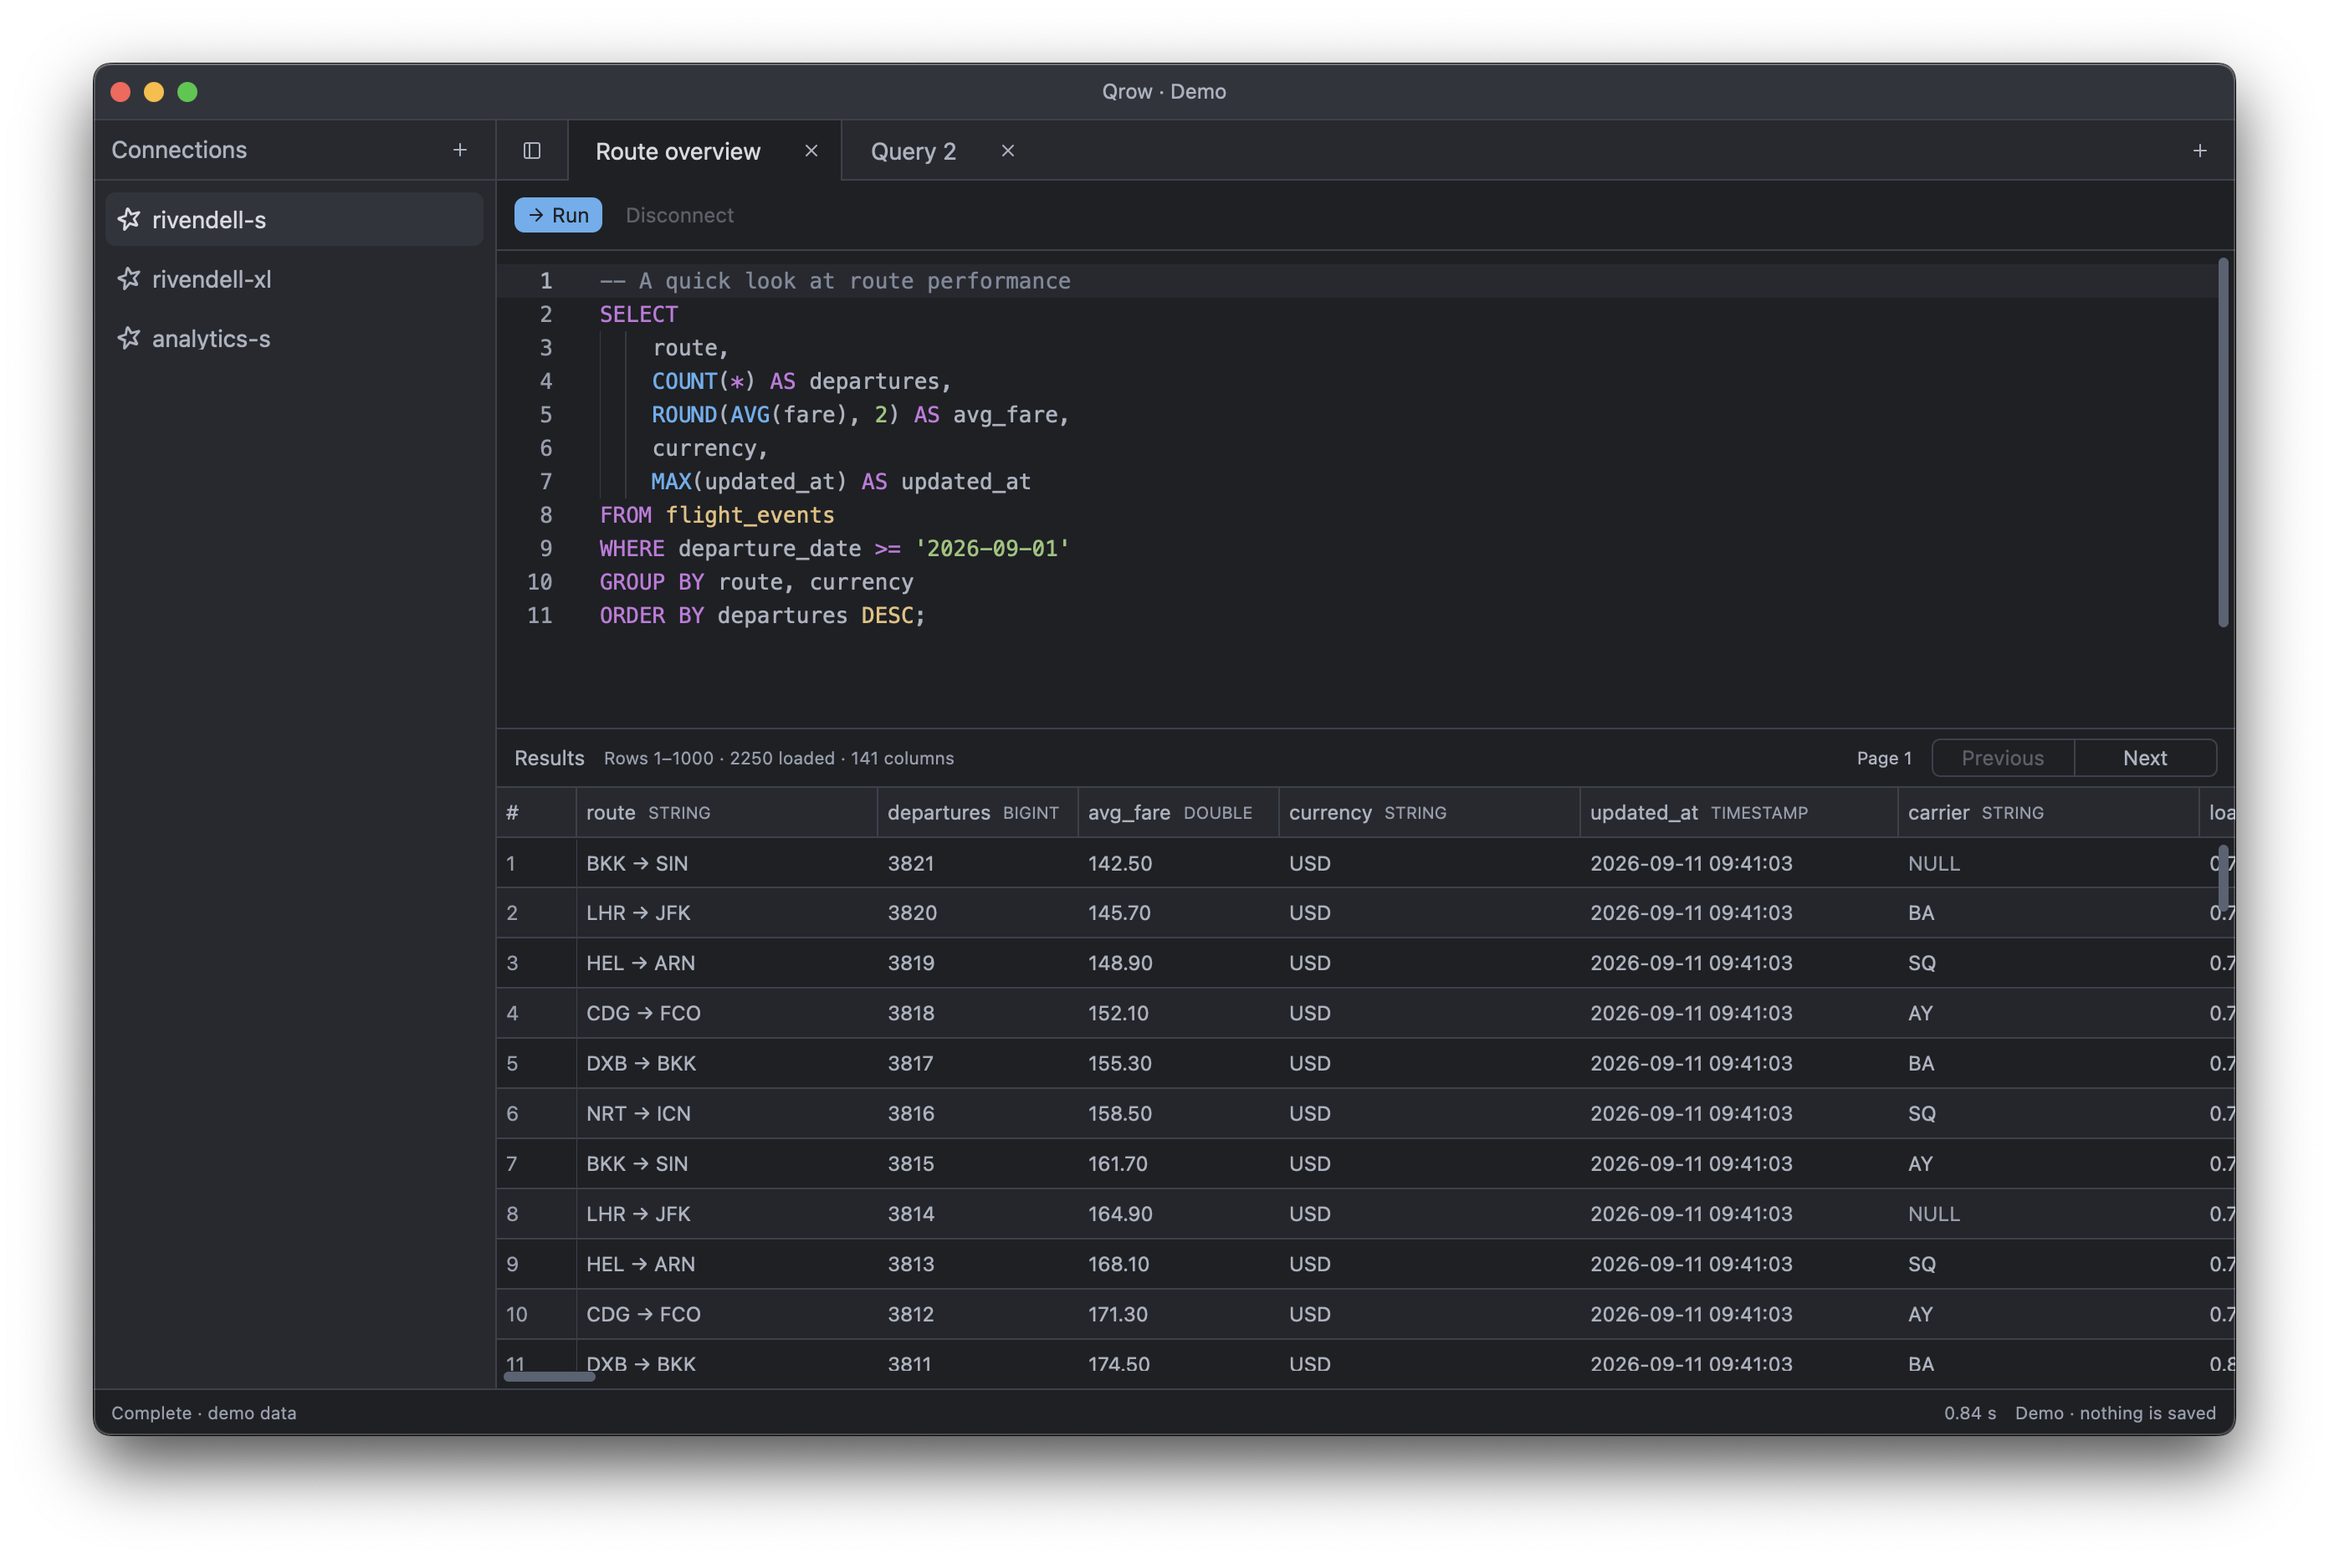
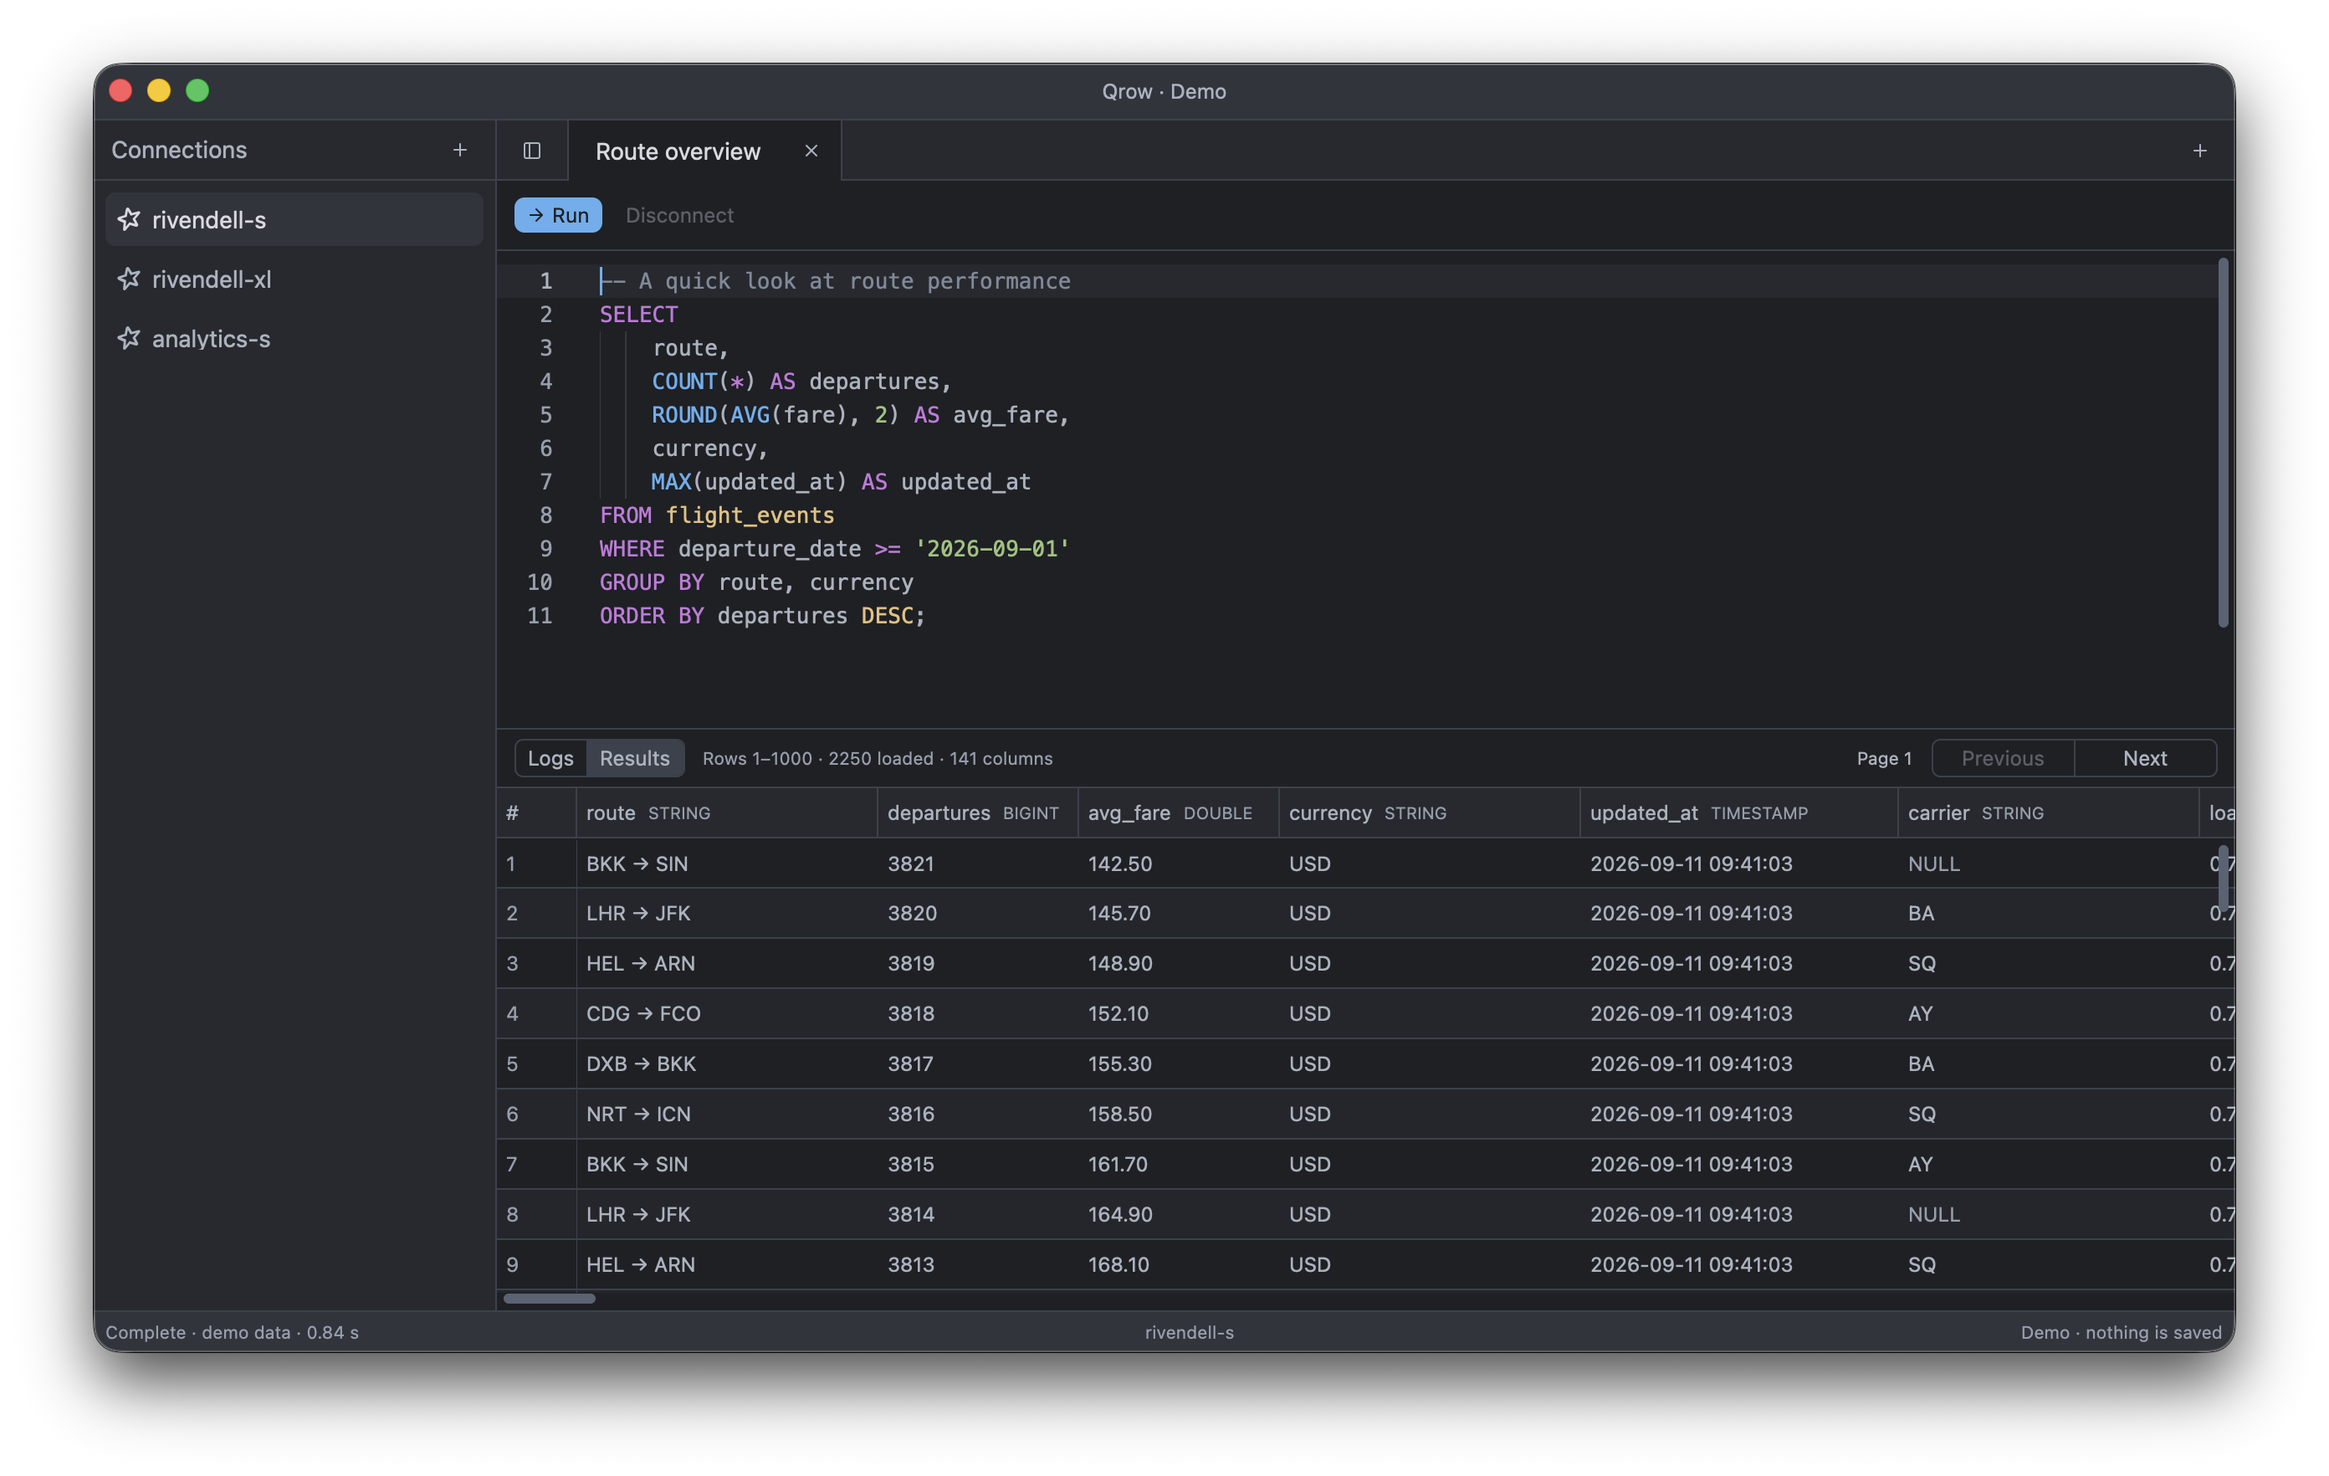
feat(ui): rebuild workspace status bar

diff --git a/src/ui/workspace_view.rs b/src/ui/workspace_view.rs
@@ -2,6 +2,7 @@ use super::*;
 use gpui_kit::component::{
     Selectable, TitleBar, h_flex,
     input::Editor,
+    status_bar::StatusBar,
     tab::{Tab as QueryTab, TabBar},
     v_flex,
 };
@@ -9,6 +10,30 @@ use qrow::model::copied_profile_name;
 use std::rc::Rc;
 
 const TAB_BAR_HEIGHT: f32 = 36.;
+
+fn connection_name(profiles: &[Profile], id: Option<Uuid>) -> &str {
+    id.and_then(|id| profiles.iter().find(|profile| profile.id == id))
+        .map_or("No connection", |profile| profile.name.as_str())
+}
+
+fn query_status_label(status: &str, elapsed: Option<Duration>) -> String {
+    elapsed.map_or_else(
+        || status.to_owned(),
+        |elapsed| format!("{status} · {:.2} s", elapsed.as_secs_f64()),
+    )
+}
+
+fn workspace_status(demo: bool, saving_enabled: bool, dirty: bool) -> &'static str {
+    if demo {
+        "Demo · nothing is saved"
+    } else if !saving_enabled {
+        "Workspace saving disabled"
+    } else if dirty {
+        "Saving"
+    } else {
+        "Workspace saved"
+    }
+}
 
 impl Qrow {
     fn connections(&self, cx: &mut Context<Self>) -> impl IntoElement {
@@ -422,39 +447,42 @@ impl Qrow {
             .into_any_element()
     }
 
-    fn status_bar(&self, cx: &App) -> impl IntoElement {
+    fn status_bar(&self) -> impl IntoElement {
         let tab = &self.tabs[self.active];
-        h_flex()
-            .h_8()
-            .px_3()
-            .gap_3()
+        let connection_name = connection_name(&self.profiles, tab.saved.profile);
+        let status_label = query_status_label(&tab.status, tab.elapsed);
+        let workspace_status =
+            workspace_status(self.demo, self.saver.is_some(), self.dirty.is_some());
+
+        StatusBar::new()
             .flex_shrink_0()
-            .text_xs()
-            .border_t_1()
-            .border_color(cx.theme().border)
-            .text_color(cx.theme().muted_foreground)
-            .child(
+            .left(
                 div()
                     .id("query-status")
                     .role(Role::Status)
                     .min_w_0()
                     .truncate()
-                    .aria_label(tab.status.clone())
-                    .child(tab.status.clone()),
+                    .aria_label(status_label.clone())
+                    .child(status_label),
             )
-            .child(div().flex_1())
-            .when_some(tab.elapsed, |el, elapsed| {
-                el.child(format!("{:.2} s", elapsed.as_secs_f64()))
-            })
-            .child(if self.demo {
-                "Demo · nothing is saved"
-            } else if self.saver.is_none() {
-                "Workspace saving disabled"
-            } else if self.dirty.is_some() {
-                "Saving"
-            } else {
-                "Workspace saved"
-            })
+            .child(
+                div()
+                    .id("current-connection")
+                    .role(Role::Label)
+                    .min_w_0()
+                    .truncate()
+                    .aria_label(format!("Current connection: {connection_name}"))
+                    .child(connection_name.to_owned()),
+            )
+            .right(
+                div()
+                    .id("workspace-status")
+                    .role(Role::Status)
+                    .min_w_0()
+                    .truncate()
+                    .aria_label(workspace_status)
+                    .child(workspace_status),
+            )
     }
 
     fn splitter(&self, horizontal: bool, cx: &mut Context<Self>) -> impl IntoElement {
@@ -640,7 +668,7 @@ impl Render for Qrow {
                         .child(message),
                 )
             })
-            .child(self.status_bar(cx))
+            .child(self.status_bar())
     }
 }
 
@@ -683,5 +711,42 @@ impl Render for WindowView {
             .children(Root::render_sheet_layer(window, cx))
             .children(Root::render_dialog_layer(window, cx))
             .children(Root::render_notification_layer(window, cx))
+    }
+}
+
+#[cfg(test)]
+mod tests {
+    use super::*;
+
+    #[::core::prelude::v1::test]
+    fn status_bar_formats_labels() {
+        let profile = Profile {
+            name: "Analytics".into(),
+            ..Profile::default()
+        };
+
+        assert_eq!(
+            connection_name(std::slice::from_ref(&profile), Some(profile.id)),
+            "Analytics"
+        );
+        assert_eq!(
+            connection_name(&[profile], Some(Uuid::new_v4())),
+            "No connection"
+        );
+        assert_eq!(query_status_label("Executing…", None), "Executing…");
+        assert_eq!(
+            query_status_label("Complete", Some(Duration::from_millis(842))),
+            "Complete · 0.84 s"
+        );
+        assert_eq!(
+            workspace_status(true, true, false),
+            "Demo · nothing is saved"
+        );
+        assert_eq!(
+            workspace_status(false, false, false),
+            "Workspace saving disabled"
+        );
+        assert_eq!(workspace_status(false, true, true), "Saving");
+        assert_eq!(workspace_status(false, true, false), "Workspace saved");
     }
 }
